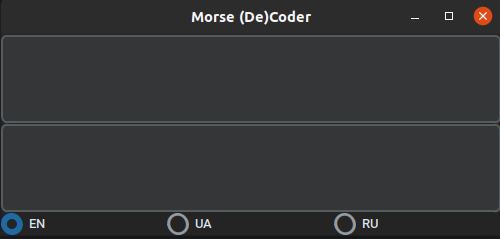
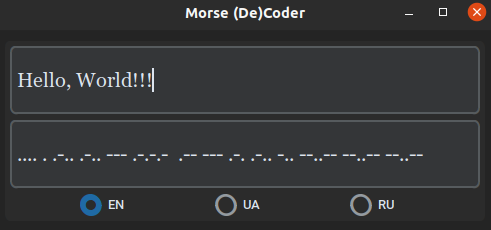
Improve interface

diff --git a/morse_encryptor/morse_window.py b/morse_encryptor/morse_window.py
@@ -1,5 +1,4 @@
 import os
-import tkinter as tk
 import customtkinter as ctk
 import pygame
 
@@ -18,15 +17,17 @@ class Window(ctk.CTk):
 
     def __init__(self):
         super().__init__()
-        self.entry_enc_modifier = tk.StringVar()
-        self.entry_dec_modifier = tk.StringVar()
-        self.radio_button_selector = tk.StringVar()
+        self.main_frame = ctk.CTkFrame(self)
+
+        self.entry_enc_modifier = ctk.StringVar()
+        self.entry_dec_modifier = ctk.StringVar()
+        self.radio_button_selector = ctk.StringVar()
 
         self.entry_enc_modifier.trace('w', self.entry_modified)
         self.entry_dec_modifier.trace('w', self.entry_modified)
 
-        self.entry_enc = ctk.CTkEntry(self, textvariable=self.entry_enc_modifier)
-        self.entry_dec = ctk.CTkEntry(self, textvariable=self.entry_dec_modifier)
+        self.entry_enc = ctk.CTkEntry(self.main_frame, textvariable=self.entry_enc_modifier, font=('Georgia', 20))
+        self.entry_dec = ctk.CTkEntry(self.main_frame, textvariable=self.entry_dec_modifier, font=('Georgia', 20))
 
         self.entry_enc.bind('<Button-3>', self.activate_entry_enc)
         self.entry_dec.bind('<Button-3>', self.activate_entry_dec)
@@ -52,15 +53,16 @@ class Window(ctk.CTk):
         self.place_elements()
 
     def place_elements(self):
-        self.entry_enc.pack(fill=tk.BOTH, expand=True)
-        self.entry_dec.pack(fill=tk.BOTH, expand=True)
-        self.en_radio_button.pack(side=tk.LEFT, fill=tk.BOTH, expand=True)
-        self.ua_radio_button.pack(side=tk.LEFT, fill=tk.BOTH, expand=True)
-        self.ru_radio_button.pack(side=tk.LEFT, fill=tk.BOTH, expand=True)
+        self.entry_enc.pack(fill=ctk.BOTH, expand=True, padx=5, pady=5)
+        self.entry_dec.pack(fill=ctk.BOTH, expand=True, padx=5, pady=(0, 5))
+        self.en_radio_button.pack(side=ctk.LEFT, fill=ctk.BOTH, expand=True, pady=(0, 5), padx=(75, 0))
+        self.ua_radio_button.pack(side=ctk.LEFT, fill=ctk.BOTH, expand=True, pady=(0, 5))
+        self.ru_radio_button.pack(side=ctk.LEFT, fill=ctk.BOTH, expand=True, pady=(0, 5))
+        self.main_frame.pack(padx=10, pady=10, fill=ctk.BOTH, expand=True)
 
     def radio_button_creator(self, language: str) -> ctk.CTkRadioButton:
         return ctk.CTkRadioButton(
-            self, text=language, value=language, variable=self.radio_button_selector,
+            self.main_frame, text=language, value=language, variable=self.radio_button_selector,
             command=lambda: self.radio_button_entries_reloader(language)
         )
 
@@ -77,8 +79,8 @@ class Window(ctk.CTk):
             self, source_entry: ctk.CTkEntry, target_entry: ctk.CTkEntry, function, working_dict: Dict[str, str]
     ):
         current_data = source_entry.get()
-        source_entry.delete(0, tk.END)
-        target_entry.delete(0, tk.END)
+        source_entry.delete(0, ctk.END)
+        target_entry.delete(0, ctk.END)
         source_entry_modifier = self.entry_enc_modifier if source_entry == self.entry_enc else self.entry_dec_modifier
         target_entry_modifier = self.entry_dec_modifier if target_entry == self.entry_dec else self.entry_enc_modifier
         source_entry_modifier.set(current_data)
